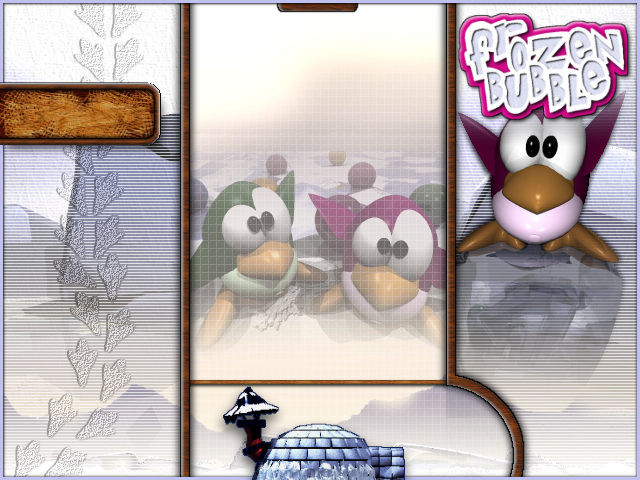
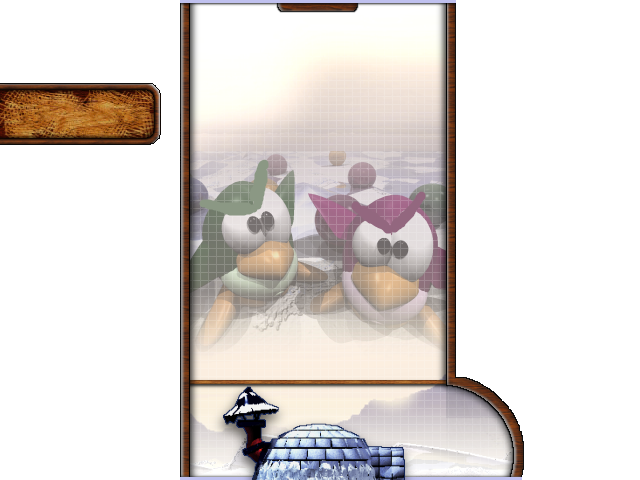
css

diff --git a/Frozen Bubble/public_html/css/style.css b/Frozen Bubble/public_html/css/style.css
@@ -8,3 +8,75 @@ and open the template in the editor.
     Author     : Dante
 */
 
+html, body {
+	background: #FFF;
+}
+
+div#main_canvas {
+	width: 640px;
+	height: 480px;
+}
+
+.hd {
+	display: none;
+}
+
+div.game_background {
+	background-image: url('../img/back_one_player.png');
+	background-repeat: no-repeat;
+}
+
+.shooter {
+	background-image: url('../img/shooter.png');
+	background-repeat: no-repeat;
+	position: absolute;
+	width: 100px;
+	height: 100px;
+	z-index: 100;
+}
+
+.bubble {
+	background-image: url('../img/bubbles.gif');
+	background-repeat: no-repeat;
+	position: absolute;
+	width: 32px;
+	height: 32px;
+	z-index: 50;
+}
+
+.bubble_frozzen {
+	background-image: url('../img/bubble_lose.png');
+	background-repeat: no-repeat;
+	position: absolute;
+	width: 34px;
+	height: 48px;
+	z-index: 60;
+}
+
+.compressor {
+	background-image: url('../img/compressor_main.png');
+	background-repeat: no-repeat;
+	position: absolute;
+	width: 252px;
+	height: 51px;
+	z-index: 50;
+}
+
+.compressor_extender {
+	background-image: url('../img/compressor_ext.png');
+	background-repeat: no-repeat;
+	position: absolute;
+	width: 188px;
+	height: 28px;
+	z-index: 50;
+}
+
+.font {
+	background-repeat: no-repeat;
+	position: absolute;
+	z-index: 99999;
+}
+
+.text_link {
+	cursor: pointer;
+}

diff --git a/Frozen Bubble/public_html/index.html b/Frozen Bubble/public_html/index.html
@@ -10,7 +10,22 @@ and open the template in the editor.
         <meta charset="UTF-8">
         <meta name="viewport" content="width=device-width, initial-scale=1.0">
         <link href="css/style.css" rel="stylesheet" type="text/css"/>
+
+        <script src="js/config.js"></script>
+        <script src="js/tools/animated_image.js"></script>
+        <script src="js/tools/text.js"></script>
+        <script src="js/tools/sound_manager.js"></script>
+        <script src="js/tools/user_alerts.js"></script>
+        <script src="js/level_temp/levels.js"></script>
+        <script src="js/controllers/bubble.js"></script>
+        <script src="js/controllers/game.js"></script>
+        <script src="js/controllers/compressor.js"></script>
+        <script src="js/controllers/bubbles_grid.js"></script>
+        <script src="js/controllers/player.js"></script>
+        <script src="js/frozen_bubble.js"></script>
     </head>    
-    
+
+    <div id="main_canvas"></div>
+
     <script src="js/script.js" type="text/javascript"></script>
 </html>
